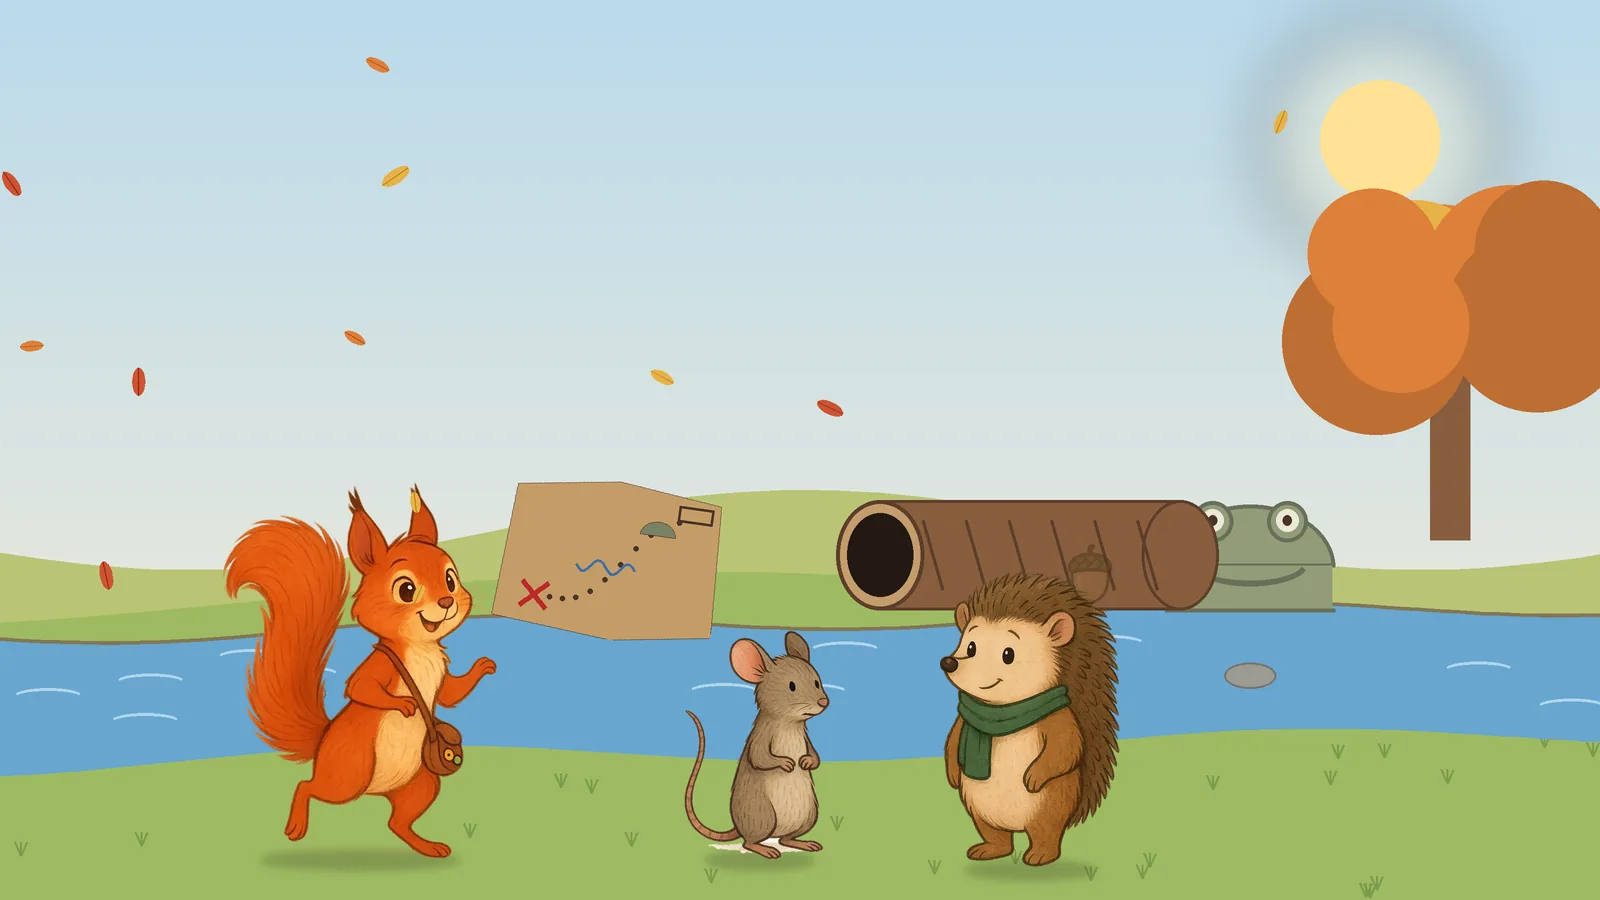
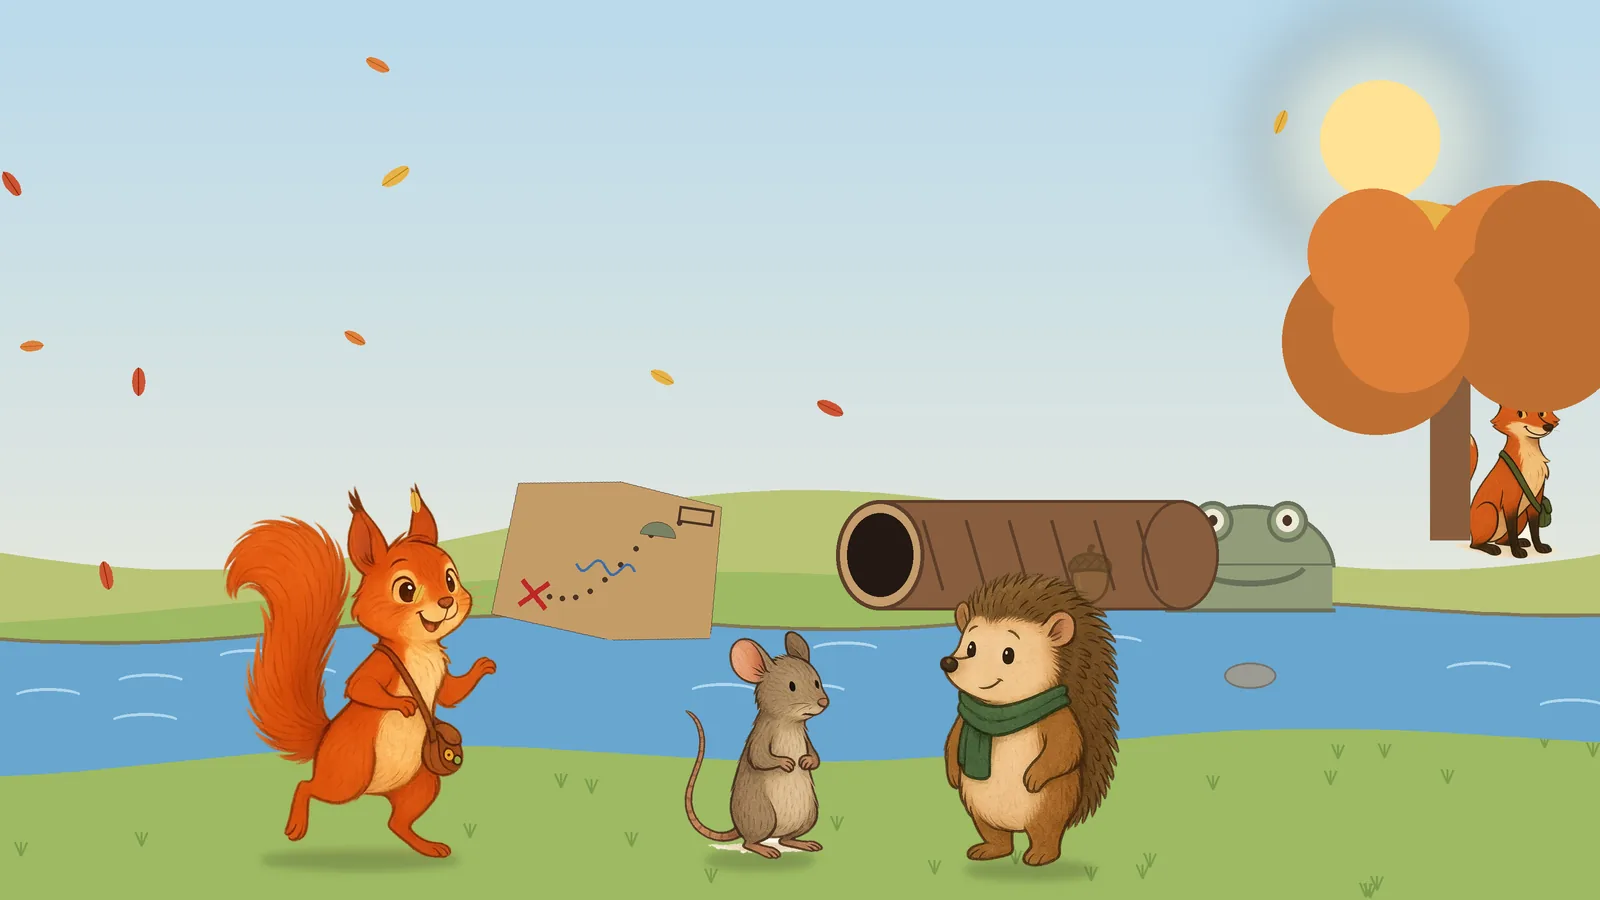
The Upside-Down Map: Echo secretly helps the heroes
Echo pushes the spinning raft to shore with a stick from the reeds, shoves
the log over the stream so it becomes the way home, and leaves fox prints
that Moss notices; at dusk he claims it was all luck. Echo joins the cast,
the scenes (cover, pages 10, 13, 15, 19) and the quiz. Scene tool gains
prints, reeds and stick elements (documented in docs/SCENE_ART.md).

Claude-Session: https://claude.ai/code/session_013jyUGWJGwtZG6B647Epx1C

Changed region(s): [[0.9062, 0.4356, 0.9688, 0.6222]]

diff --git a/tools/compose-scenes.py b/tools/compose-scenes.py
@@ -530,6 +530,31 @@ def el_zzz(img, d, e):
     for i, sz in enumerate((28, 36, 46)):
         d.text((P(e["x"]) + i * P(34), P(e["y"]) - i * P(40)), "z", fill=(255, 255, 255), font=font(P(sz)))
 
+def el_prints(img, d, e):
+    """A trail of paw prints. x, y = start; dx, dy = step; n = how many."""
+    for i in range(int(e.get("n", 6))):
+        x = P(e["x"] + i * e.get("dx", 60)); y = P(e["y"] + i * e.get("dy", 0)) + (P(10) if i % 2 else -P(10))
+        s = P(e.get("s", 12))
+        col = tuple(e.get("color", (96, 66, 44)))
+        d.ellipse([x - s, y - s * 0.7, x + s, y + s * 0.7], fill=col)
+        for k in (-1, -0.35, 0.35, 1):
+            d.ellipse([x + k * s * 0.9 - s * 0.3, y - s * 1.4, x + k * s * 0.9 + s * 0.3, y - s * 0.8], fill=col)
+
+def el_reeds(img, d, e):
+    x, y, h = P(e["x"]), P(e["y"]), P(e.get("h", 260))
+    rnd = random.Random(int(e["x"]))
+    for i in range(int(e.get("n", 16))):
+        bx = x + rnd.uniform(-P(e.get("w", 90)), P(e.get("w", 90)))
+        top = y - h * rnd.uniform(0.6, 1.0)
+        lean = rnd.uniform(-P(30), P(30))
+        d.line([(bx, y), (bx + lean, top)], fill=rnd.choice([(96, 132, 62), (120, 150, 70), (82, 114, 54)]), width=P(6))
+        if i % 3 == 0:
+            d.ellipse([bx + lean - P(7), top - P(10), bx + lean + P(7), top + P(34)], fill=(130, 88, 54))
+
+def el_stick(img, d, e):
+    d.line([(P(e["x1"]), P(e["y1"])), (P(e["x2"]), P(e["y2"]))], fill=(122, 86, 54), width=P(e.get("w", 8)))
+
+
 def el_emblem(img, d, e, circle):
     em = Image.open(ROOT / f"images/web/circles/circle-{circle.lower()}.webp").convert("RGBA")
     s = P(e.get("s", 46))

diff --git a/docs/SCENE_ART.md b/docs/SCENE_ART.md
@@ -63,6 +63,8 @@ Because characters come from their web copies, they always match the Character B
 | `acorns` | `x`, `y`, `n`, `spread`, `ys`, `r` | A scatter or shower of acorns |
 | `moss_ball` | `x`, `y`, `r`, `peek`, `acorns`, `motion` | Moss rolled up (peeking, covered in acorns, rolling) |
 | `fish`, `splash`, `moth`, `dirt`, `hole` | `x`, `y`, size | Small story details |
+| `prints` | `x`, `y`, `dx`, `dy`, `n`, `s` | A trail of paw prints |
+| `reeds`, `stick` | `x`, `y`, `h` / `x1`, `y1`, `x2`, `y2` | Reeds at the water, a poking stick |
 | `notes`, `glow`, `zzz`, `stars`, `falling_leaves` | see the tool | Music, Leo's wish-ball glow, sleeping, night sky, leaves |
 | `motion` | `x`, `y`, `s`, `kind` (`hop`, `bonk`, `huff`, `spin`) | Cartoon action lines |
 | `character` | `id`, `x`, `y`, `h`, `flip`, `rot`, `dim`, `noShadow` | A character from `images/web/characters/` (`pip` and `pebble` separately) |
